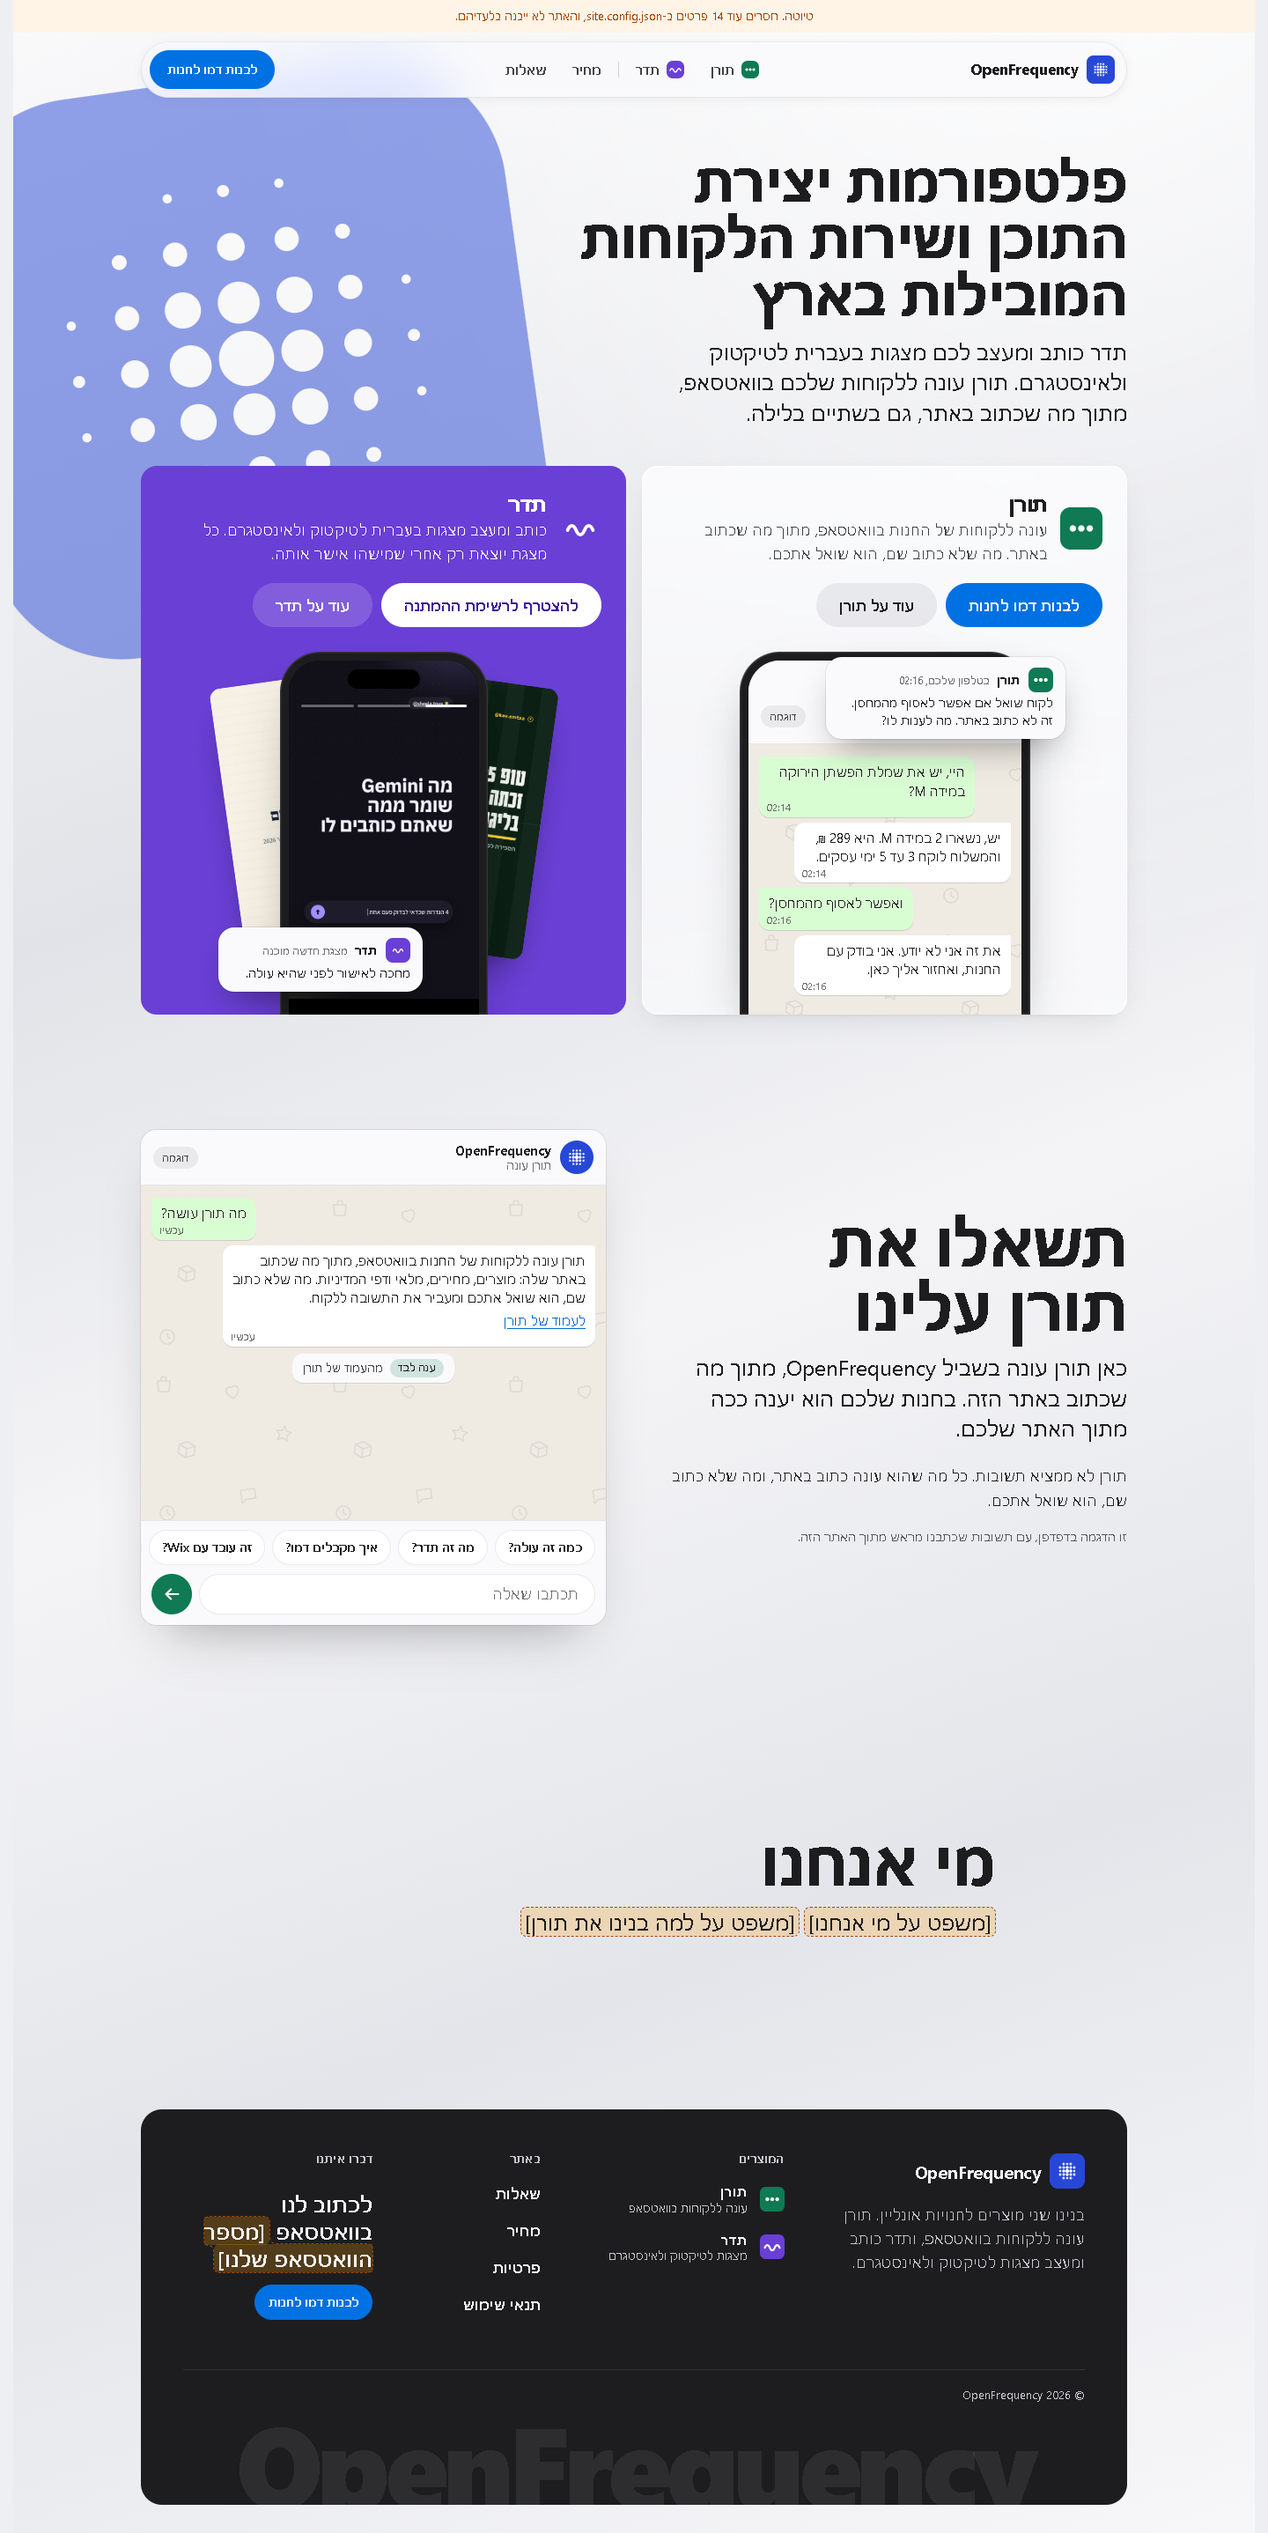
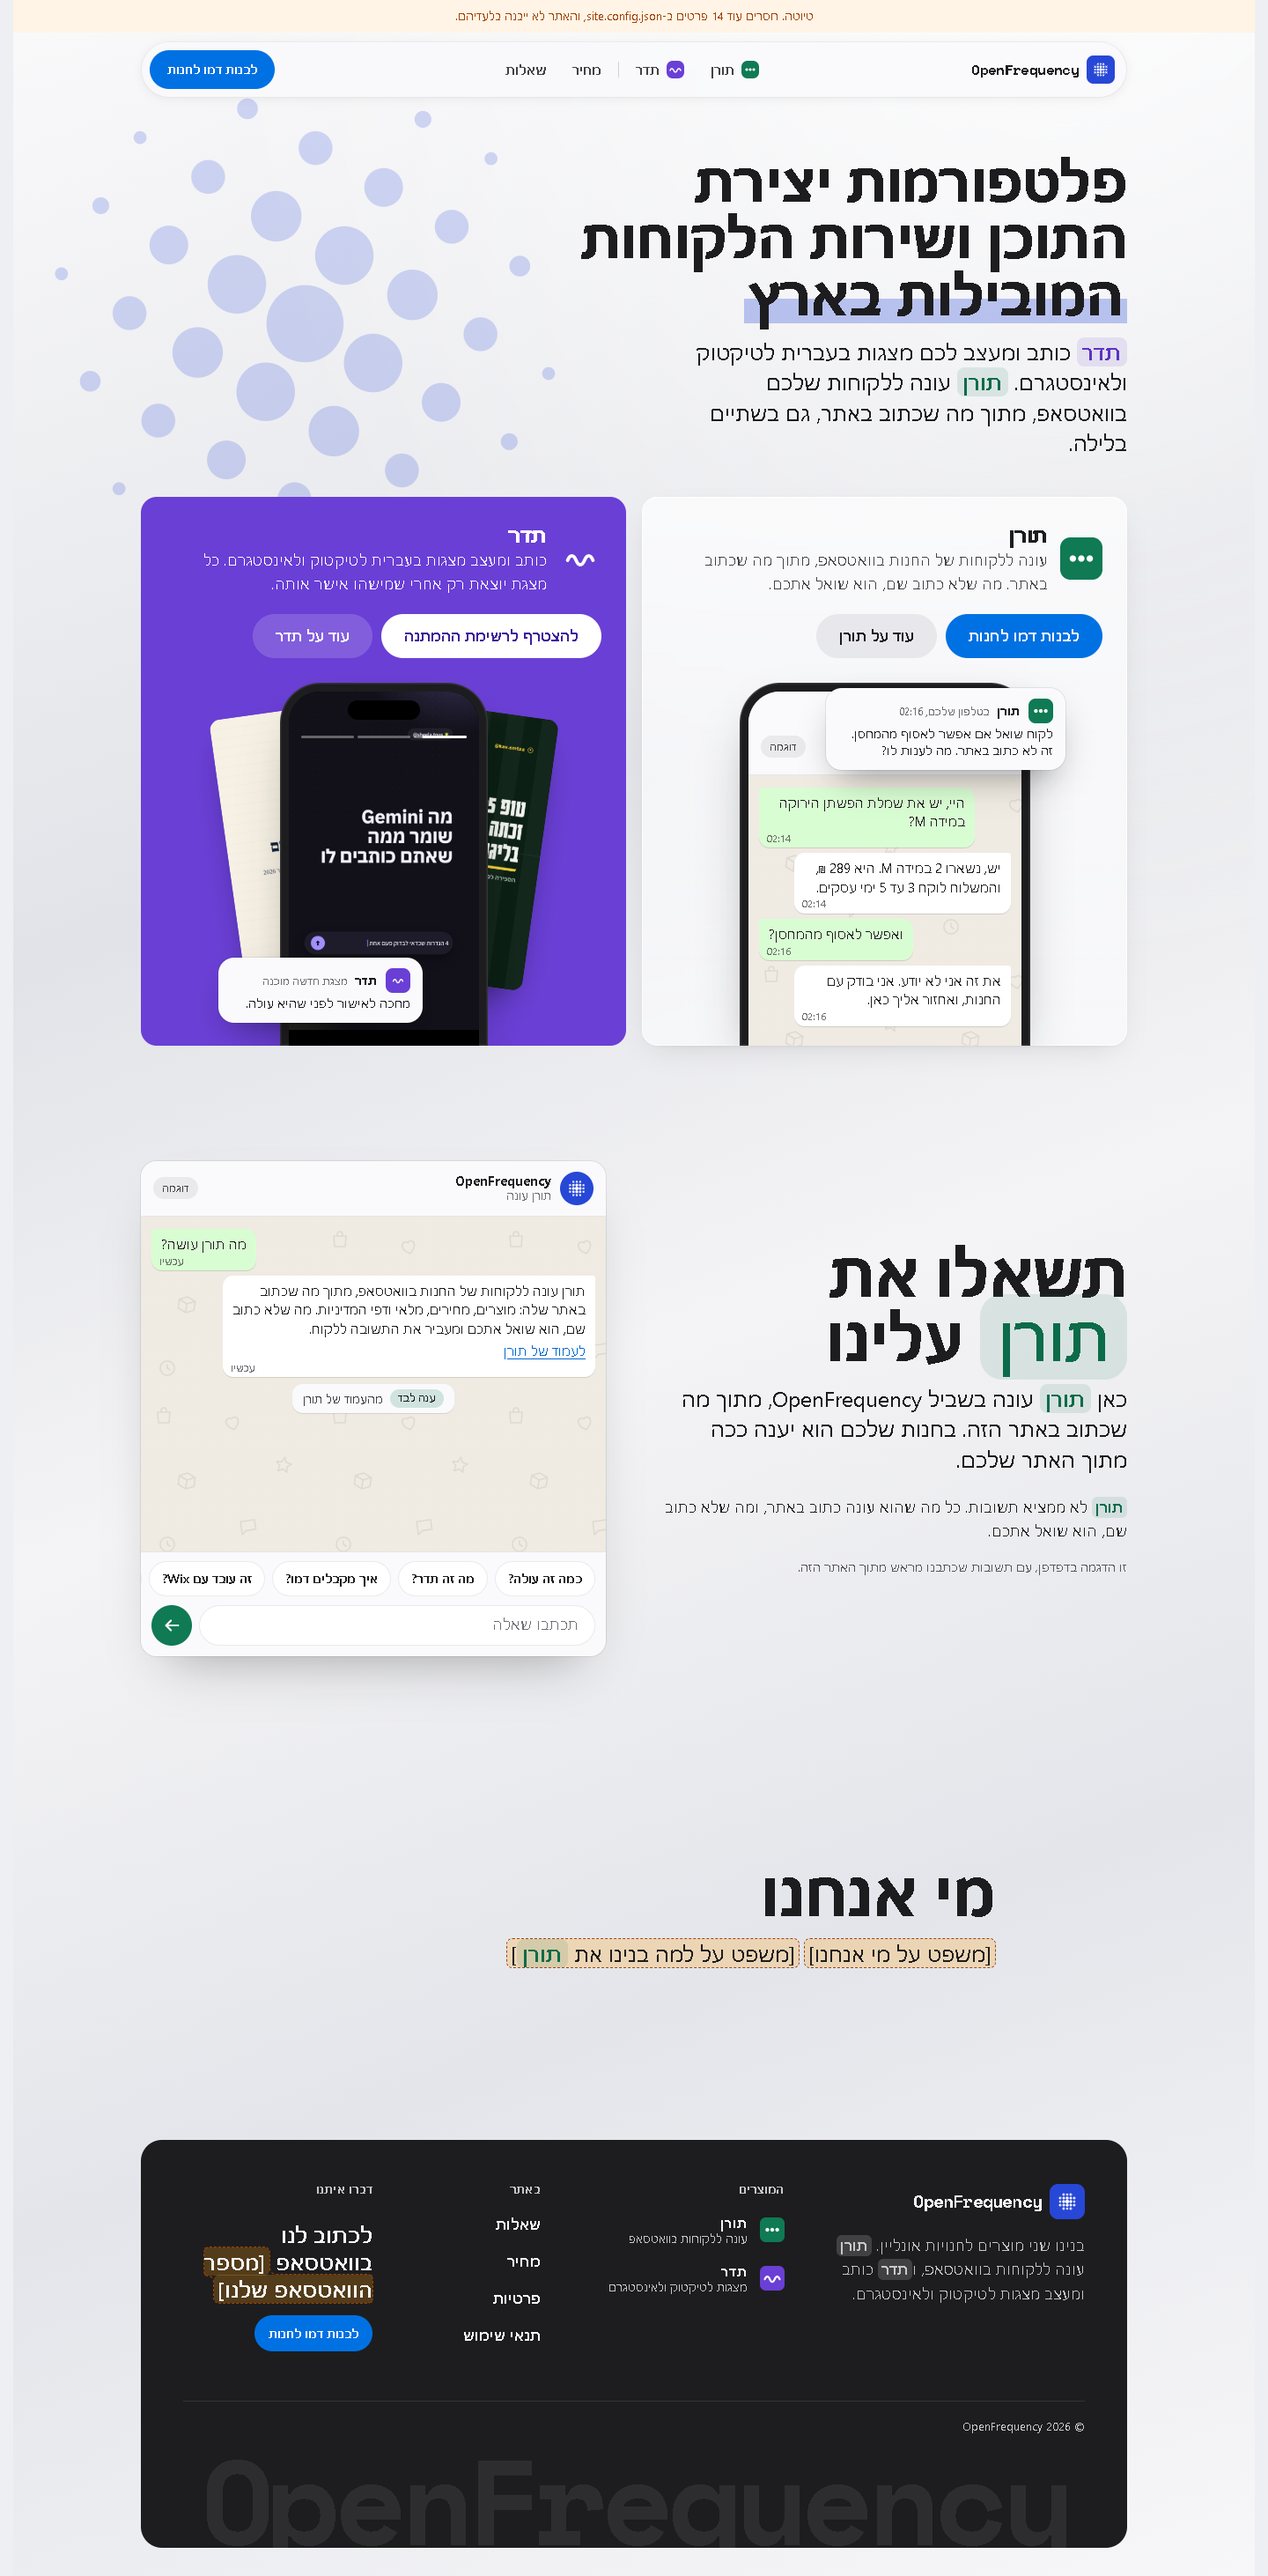
Toran and Teder are set as names in every sentence, the wordmark is Space Mono, and the halftone is bigger and turned
Claude-Session: https://claude.ai/code/session_013ytyKksuwzF2xehLBuYDbT

diff --git a/src/style.css b/src/style.css
@@ -30,9 +30,20 @@
   unicode-range: U+0000-00FF, U+0131, U+0152-0153, U+02BB-02BC, U+02C6, U+02DA, U+02DC, U+0304, U+0308, U+0329, U+2000-206F, U+20AC, U+2122, U+2191, U+2193, U+2212, U+2215, U+FEFF, U+FFFD;
 }
 
+@font-face {
+  font-family: 'Space Mono';
+  font-style: normal;
+  font-display: swap;
+  font-weight: 700;
+  src: url('/fonts/space-mono-700-latin.woff2') format('woff2');
+  unicode-range: U+0000-00FF, U+0131, U+0152-0153, U+02BB-02BC, U+02C6, U+02DA, U+02DC, U+0304, U+0308, U+0329, U+2000-206F, U+20AC, U+2122, U+2191, U+2193, U+2212, U+2215, U+FEFF, U+FFFD;
+}
+
 :root {
   color-scheme: light;
   --text: -apple-system, BlinkMacSystemFont, 'SF Pro Text', 'SF Hebrew', system-ui, 'Segoe UI', 'Noto Sans Hebrew', Heebo, 'Helvetica Neue', Arial, sans-serif;
+  /* the company's name, wherever it is the logo */
+  --wordmark: 'Space Mono', ui-monospace, 'SF Mono', Menlo, Consolas, monospace;
   --display: -apple-system, BlinkMacSystemFont, 'SF Pro Display', 'SF Hebrew', system-ui, 'Segoe UI', 'Noto Sans Hebrew', Heebo, 'Helvetica Neue', Arial, sans-serif;
   --bg: #eeeff2;
   --wall: radial-gradient(120% 80% at 85% -10%, #ffffff 0%, rgba(255, 255, 255, 0) 60%),
@@ -64,6 +75,9 @@
   --ok: #19702f;
   --toran: #0f7a54;
   --teder: #6a3fd6;
+  /* a product's name inside a sentence */
+  --toran-name: #0c6b49;
+  --teder-name: #5b33c2;
   /* on Teder's violet field: the button's ink and its hover */
   --teder-ink: #3d1f9a;
   --teder-hover: #f1ecff;
@@ -103,6 +117,8 @@
 @media (prefers-color-scheme: dark) {
   :root {
     color-scheme: dark;
+    --toran-name: #5fd6a6;
+    --teder-name: #b9a2ff;
     --bg: #111113;
     --wall: radial-gradient(120% 80% at 85% -10%, #2c2c30 0%, rgba(44, 44, 48, 0) 55%),
       linear-gradient(160deg, #1c1c1f 0%, #0b0b0d 30%, #2a2a2e 52%, #0e0e10 76%, #1f1f22 100%);
@@ -227,6 +243,15 @@ p:last-child { margin-bottom: 0; }
 .mark.openfrequency { background: var(--of); }
 .mark.toran { background: var(--toran); }
 .mark.teder { background: var(--teder); }
+/* Toran and Teder inside a sentence, set as names (markNames in lib.mjs), so nobody reads them as the plain words */
+.pn { padding: 0 0.22em 0.04em; border-radius: 0.34em; font-weight: 600; white-space: nowrap; color: var(--pn); background: color-mix(in srgb, var(--pn) 11%, transparent); }
+.pn.toran { --pn: var(--toran-name); }
+.pn.teder { --pn: var(--teder-name); }
+/* glued to its prefix letter: בתדר reads as one word */
+.pn.after { padding-inline-start: 0.08em; border-start-start-radius: 0.14em; border-end-start-radius: 0.14em; }
+/* in a heading the colour alone is enough */
+:is(h1, h2, h3) .pn { padding: 0; background: none; }
+.teder-door .pn, .teder-field .pn, .foot .pn { color: inherit; background: rgba(255, 255, 255, 0.16); }
 .mark.inline { display: inline-block; vertical-align: -0.18em; margin-inline-end: 0.3em; --s: 1.05em; }
 
 /* ------------------------------------------------------------ buttons and fields */
@@ -296,7 +321,7 @@ input:focus, textarea:focus { outline: none; border-color: var(--accent-fill); b
 }
 .scrolled .bar { box-shadow: var(--shadow-float), inset 0 0 0 1px var(--bar-edge), inset 0 1px 0 var(--rim); }
 .brand { display: flex; align-items: center; gap: 9px; min-height: 44px; flex: none; color: var(--ink); text-decoration: none; }
-.brand b { font: 700 17px/1 var(--display); letter-spacing: -0.01em; }
+.brand b { font: 700 16px/1 var(--wordmark); letter-spacing: -0.04em; }
 .bar .brand .mark { transition: transform 0.4s var(--ease-out); }
 @media (hover: hover) { .bar .brand:hover .mark { transform: rotate(-8deg) scale(1.06); } }
 .bar .cta { margin-inline-start: auto; padding: 0 16px; flex: none; }
@@ -417,10 +442,10 @@ input:focus, textarea:focus { outline: none; border-color: var(--accent-fill); b
 .co-hero h1 .hl { padding-inline: 0.08em; background: linear-gradient(transparent 58%, color-mix(in srgb, var(--of) 30%, transparent) 58%, color-mix(in srgb, var(--of) 30%, transparent) 92%, transparent 92%); -webkit-box-decoration-break: clone; box-decoration-break: clone; }
 @media (prefers-color-scheme: dark) { .co-hero h1 .hl { background: linear-gradient(transparent 58%, rgb(110 135 255 / 0.42) 58%, rgb(110 135 255 / 0.42) 92%, transparent 92%); } }
 .co-hero .lede { margin-top: 18px; max-width: 40ch; }
-/* Our mark, large and half see-through behind the headline, pushed toward the left edge. The doors' glass blurs it. */
-.co-bg { position: absolute; z-index: -1; top: -150px; left: clamp(-200px, calc(50% - 820px), -40px); color: var(--of); opacity: 0.2; pointer-events: none; }
-.co-bg svg { display: block; width: clamp(460px, 52vw, 780px); height: auto; }
-@media (max-width: 899px) { .co-bg { top: 60px; left: -170px; opacity: 0.16; } .co-bg svg { width: 520px; } }
+/* The mark's dots alone, large, faint and turned 30 degrees behind the headline, pushed toward the left edge. The doors' glass blurs them. */
+.co-bg { position: absolute; z-index: -1; top: -190px; left: clamp(-300px, calc(50% - 820px), -100px); color: var(--of); opacity: 0.2; pointer-events: none; }
+.co-bg svg { display: block; width: clamp(620px, 62vw, 940px); height: auto; transform: rotate(30deg); }
+@media (max-width: 899px) { .co-bg { top: -20px; left: -260px; opacity: 0.16; } .co-bg svg { width: 680px; } }
 @media (prefers-color-scheme: dark) { .co-bg { color: #8ea2ff; opacity: 0.22; } }
 @media (prefers-color-scheme: dark) and (max-width: 899px) { .co-bg { opacity: 0.16; } }
 .doors { display: grid; gap: 14px; margin-top: clamp(28px, 4vw, 44px); }
@@ -655,7 +680,7 @@ input:focus, textarea:focus { outline: none; border-color: var(--accent-fill); b
 .foot-wa { color: var(--night-ink); font: 600 var(--fs-lead)/1.3 var(--display); }
 .foot .ph { color: var(--night-ink); }
 .foot-legal { margin: clamp(36px, 5vw, 56px) 0 0; padding-top: 18px; border-top: 1px solid rgba(255, 255, 255, 0.1); color: var(--night-ink-2); font-size: 13px; }
-.foot-word { margin: 18px 0 0; color: rgba(255, 255, 255, 0.07); font: 800 12.6cqi/0.74 var(--display); letter-spacing: -0.05em; white-space: nowrap; text-align: center; direction: ltr; user-select: none; }
+.foot-word { margin: 18px 0 0; color: rgba(255, 255, 255, 0.07); font: 700 13.4cqi/0.8 var(--wordmark); letter-spacing: -0.06em; white-space: nowrap; text-align: center; direction: ltr; user-select: none; }
 @media (min-width: 700px) { .foot-cols { grid-template-columns: repeat(2, minmax(0, 1fr)); } }
 @media (min-width: 1000px) { .foot-cols { grid-template-columns: minmax(0, 1.4fr) minmax(0, 1.1fr) minmax(0, 0.7fr) minmax(0, 1fr); gap: 40px; } }
 

diff --git a/DESIGN.md b/DESIGN.md
@@ -187,6 +187,9 @@ A hue-less silver and ink system with one action blue, three brand-mark colours,
 - **Sent Bubble**, **Received Bubble** and **Chat Ground** are WhatsApp's own colours (dark #144d37, #2c2c2e, #0b141a). They never leave a chat fragment.
 - **OK Green** (ok-green) is for success lines. **Warn** on **Warn Ground** is for form errors, "fixed" status and the draft banner.
 
+### Product names
+Toran and Teder are Hebrew words, so in a sentence they are set as names: the product's colour, weight 600, on a light tint of that colour (`.pn`). The build does it (`markNames` in `src/lib.mjs`), so new copy needs nothing. In a heading only the colour stays. A name standing alone, the nav, buttons, links and the product fragments are left as they are.
+
 ### Named Rules
 **The No Hue Wallpaper Rule.** The wallpaper and every tile are hue-less silver. Colour arrives only with the product's fragments, the brand marks, the action blue and the one violet field.
 
@@ -198,12 +201,13 @@ A hue-less silver and ink system with one action blue, three brand-mark colours,
 
 **Display Font:** the system display stack (SF Pro Display, SF Hebrew, Segoe UI, Noto Sans Hebrew), with Heebo self-hosted as the Hebrew and Latin fallback
 **Body Font:** the system text stack (SF Pro Text, SF Hebrew), with the same fallbacks
+**Wordmark Font:** Space Mono 700, self-hosted (Latin only), for the name OpenFrequency where it is the logo: the header, the footer brand and the footer wordmark
 
 **Character:** the owner's brief pins the platform's own typeface. Hierarchy therefore comes from size, weight 700 against 400, and tight negative tracking on the large sizes, not from a contrasting face.
 
 ### Hierarchy
 - **Figure** (700, clamp 88–216px, 0.86, -0.035em, tabular): the price only.
-- **Display** (700, clamp 28–72px, 1.04, -0.012em, balanced wrap): every h1 and h2, the typed question line, and the footer wordmark.
+- **Display** (700, clamp 28–72px, 1.04, -0.012em, balanced wrap): every h1 and h2 and the typed question line. The footer wordmark is the same size class in Space Mono.
 - **Lead** (600, clamp 20–24px, 1.3; 1.45 for 400 lede paragraphs): h3, FAQ questions, lede and about paragraphs, the close line. Ledes are 34–50ch.
 - **Body** (400, 17px from 900px and 16px below, 1.6): running text, up to 46–62ch.
 - **Small** (400 or 600, 14px): captions, labels, table heads, the legal line and credits.
